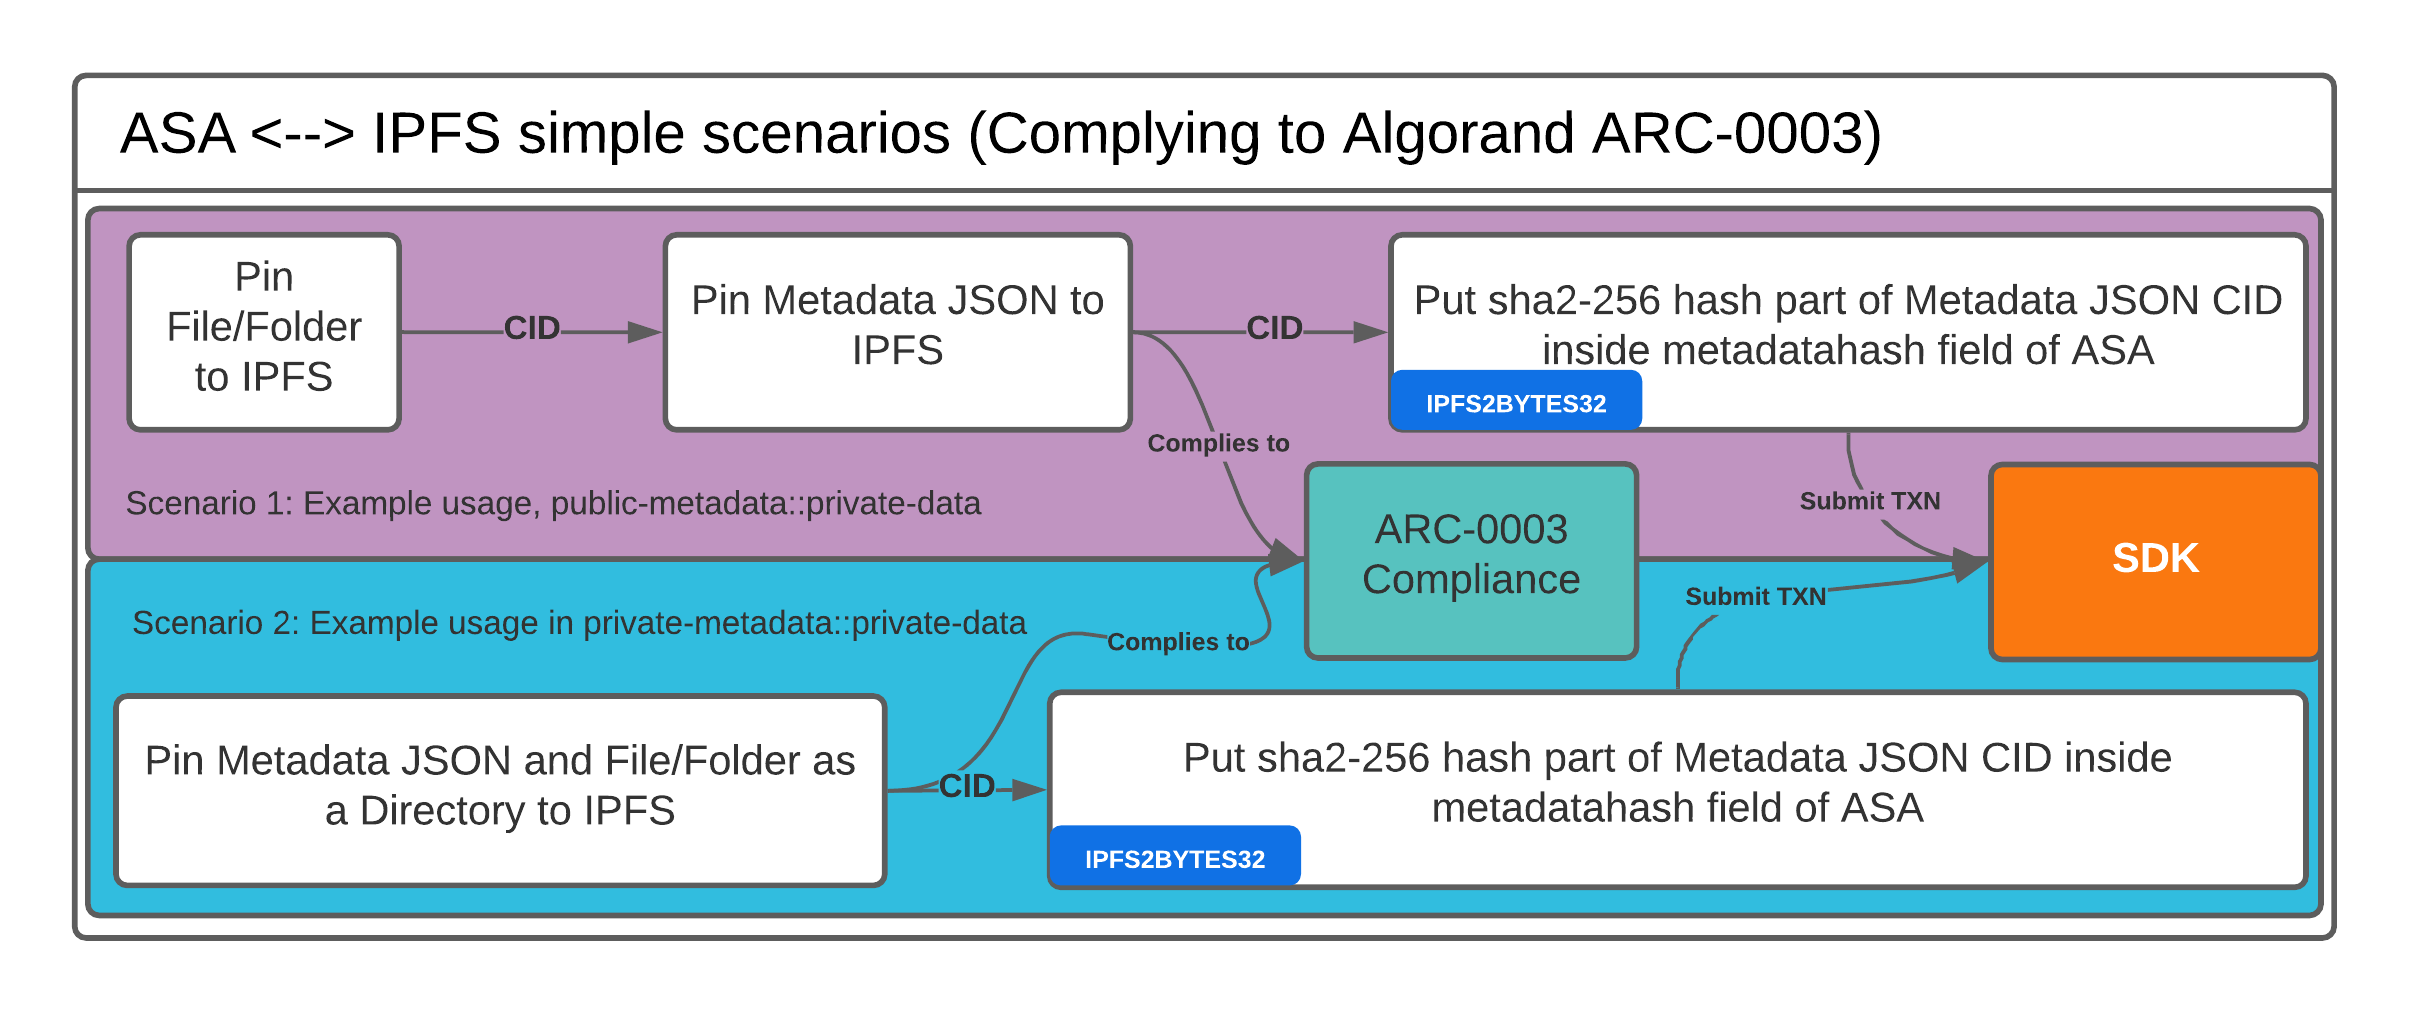
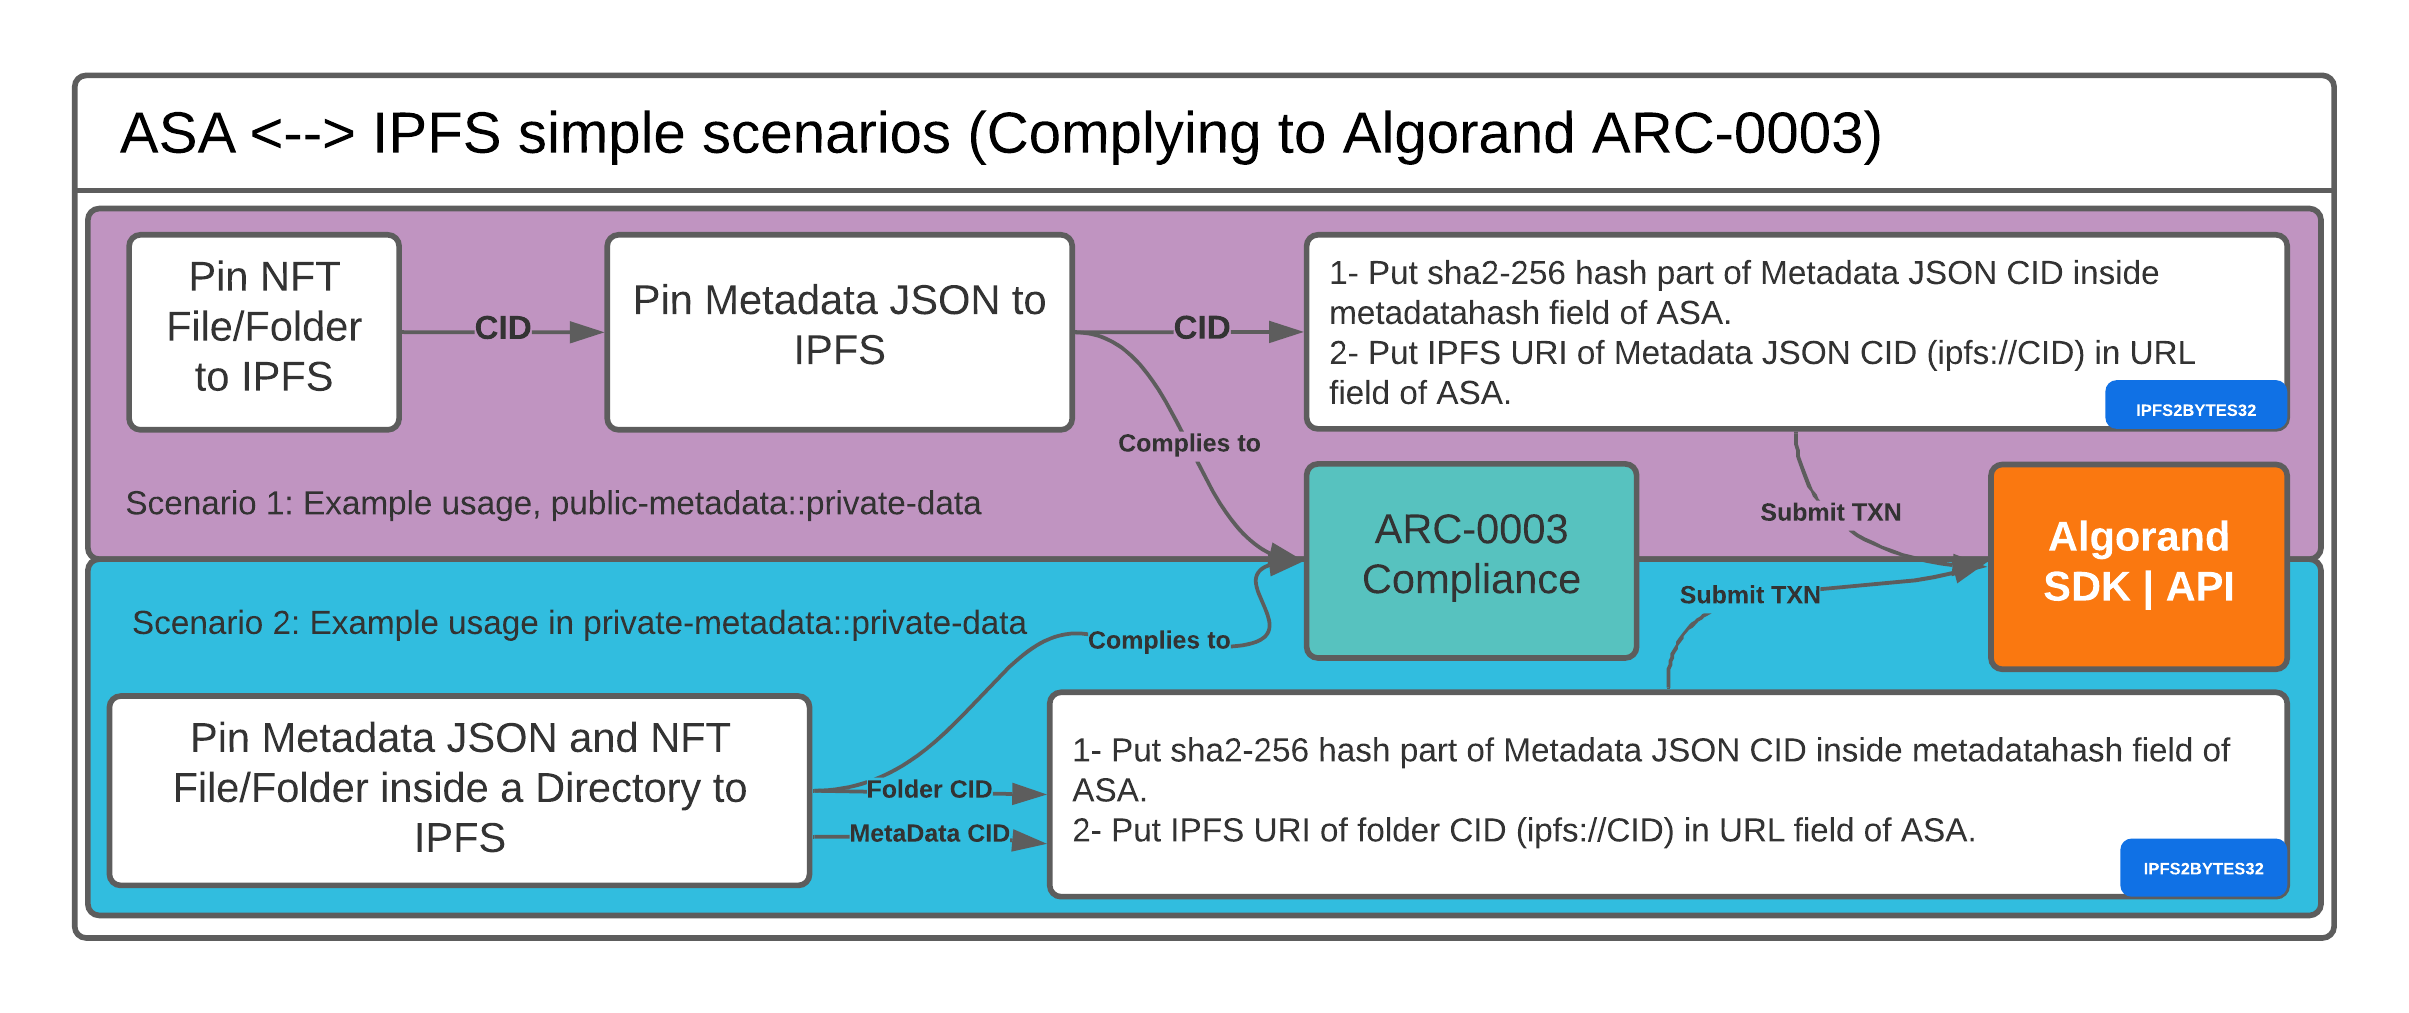
- updated README.md - fixed dependencies in package.json - added IPFS scripts

diff --git a/README.md b/README.md
@@ -1,11 +1,15 @@
 # arc3-ipfs
-This repository is a simple example of implementation of Algorand ASA Ops using IPFS integration and with emphasis on usage of metadatahash field of ASA.
+This repository is a simple implementation of Algorand ASA Ops using IPFS integration with emphasis on usage of metadatahash field of ASA, with compliance to ARC3 convention.
 
-## This is WORK IN PROGRESS and here will be a live demo link instead of this WIP ALERT when done!
+## This is WORK IN PROGRESS.
 
-[Algorand ARC0003](https://github.com/algorandfoundation/ARCs/issues/3)
+[Algorand ARC0003 discussion](https://github.com/algorandfoundation/ARCs/issues/3)
+
+[Algorand ARC0003](https://github.com/algorandfoundation/ARCs/blob/main/ARCs/arc-0003.md)
 
 [ARC0003 Related comment](https://github.com/algorandfoundation/ARCs/issues/3#issuecomment-913541426)
+
+[Algorand Developers Portal Solution](https://developer.algorand.org/solutions/working-algorand-nfts-and-ipfs/)
 
 [IPFS2BYTES32 Gists and examples repo](https://github.com/emg110/ipfs2bytes32)
 
